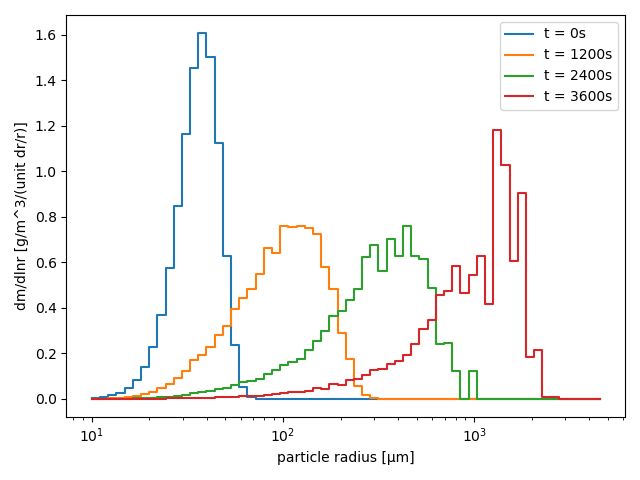
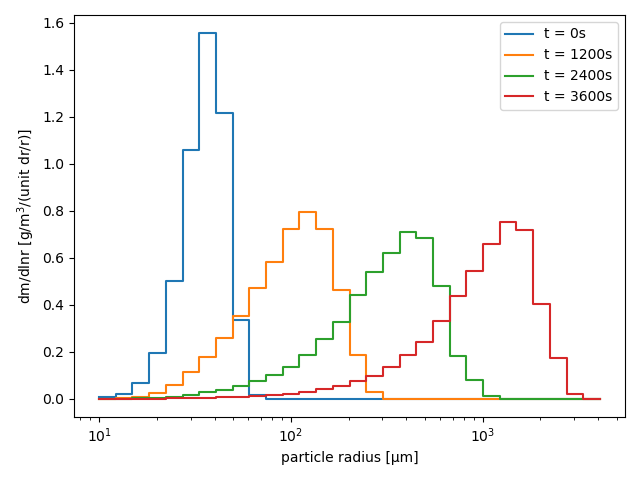
update README.md

diff --git a/PySDM/dynamics/coalescence/seeds/incrementation.py b/PySDM/dynamics/coalescence/seeds/incrementation.py
@@ -7,7 +7,7 @@ Created at 30.04.2020
 
 
 class Incrementation:
-    def __init__(self, start=0, step=1):
+    def __init__(self, start=44, step=1):
         self.seed = start
         self.step = step
 

diff --git a/README.md b/README.md
@@ -76,7 +76,7 @@ from PySDM.initialisation.spectral_sampling import constant_multiplicity
 from PySDM.initialisation.spectra import Exponential
 from PySDM.physics.formulae import volume
 
-n_sd = 2**15
+n_sd = 2**17
 initial_spectrum = Exponential(norm_factor=8.39e12, scale=1.19e5 * si.um**3)
 sampling_range = (volume(radius=10 * si.um), volume(radius=100 * si.um))
 v, n = constant_multiplicity(n_sd=n_sd, spectrum=initial_spectrum, range=sampling_range)
@@ -87,16 +87,16 @@ The key element of the PySDM interface if the [``Particles``](https://github.com
 Instantiation of the ``Particles`` class is handled by the ``ParticlesBuilder``
   as exemplified below:
 ```Python
-from PySDM.backends import Numba
-from PySDM import ParticlesBuilder
+from PySDM.particles_builder import ParticlesBuilder
 from PySDM.environments import Box
-from PySDM.dynamics.coalescence import SDM
+from PySDM.dynamics import Coalescence
 from PySDM.dynamics.coalescence.kernels import Golovin
+from PySDM.backends import Numba
 
-particles_builder = ParticlesBuilder(n_sd=n_sd, dt=1 * si.s, backend=Numba)
-particles_builder.set_environment(Box, {"dv": 1e6 * si.m**3})
+particles_builder = ParticlesBuilder(n_sd=n_sd, backend=Numba)
+particles_builder.set_environment(Box, {"dt": 1 * si.s, "dv": 1e6 * si.m**3})
 particles_builder.set_attributes(n=n, extensive={'volume': v}, intensive={})
-particles_builder.register_dynamic(SDM, {"kernel": Golovin(b=1.5e3 / si.s)})
+particles_builder.register_dynamic(Coalescence, {"kernel": Golovin(b=1.5e3 / si.s)})
 particles = particles_builder.get_particles()
 ```
 The ``backend`` argument may be set to either ``Numba`` or ``ThrustRTC``
@@ -116,21 +116,21 @@ In the listing below, its usage is interleaved with plotting logic
   which displays a histogram of particle mass distribution 
   at selected timesteps:
 ```Python
+from PySDM.physics.constants import rho_w
 from matplotlib import pyplot
 import numpy as np
 
-radius_bins_edges = np.logspace(np.log10(10 * si.um), np.log10(5e3 * si.um), num=64, endpoint=True)
-rho = 1000 * si.kg / si.m**3
+radius_bins_edges = np.logspace(np.log10(10 * si.um), np.log10(5e3 * si.um), num=32)
 
 for step in [0, 1200, 2400, 3600]:
     particles.run(step - particles.n_steps)
     pyplot.step(x=radius_bins_edges[:-1] / si.um,
-                y=particles.products['dv/dlnr'].get(radius_bins_edges) * rho / si.g,
+                y=particles.products['dv/dlnr'].get(radius_bins_edges) * rho_w / si.g,
                 where='post', label=f"t = {step}s")
 
 pyplot.xscale('log')
 pyplot.xlabel('particle radius [µm]')
-pyplot.ylabel("dm/dlnr [g/m^3/(unit dr/r)]")
+pyplot.ylabel("dm/dlnr [g/m$^3$/(unit dr/r)]")
 pyplot.legend()
 pyplot.show()
 ```
@@ -140,7 +140,48 @@ The resultant plot looks as follows:
 
 ## Package structure and API
 
-
+- backends:
+    - Numba
+    - ThrustRTC
+    - Pythran
+- initialisation:
+    - multiplicities
+        - integer values
+    - r_wet_init
+        - kappa_equilibrium
+    - spatial_sampling
+        - pseudorandom
+    - spectra
+        - Exponential
+        - Lognormal
+    - spectral_sampling
+        - linear
+        - logarithmic
+        - constant_multiplicity
+- physics:
+    - constants
+    - dimensional_analysis
+    - formulae
+- Environments:
+    - Box
+    - MoistEulerian2DKinematic
+    - MoistLagrangianParcelAdiabatic
+- Dynamics:
+    - Coalescence
+        - coalescence.kernels
+            - Golovin
+            - Gravitational
+    - Condensation
+        - condensation.solvers
+            - ImplicitInRadiusExplicitInThermodynamic (available: adaptive timestepping)
+            - BDF
+    - Displacement (includes advection with the flow & sedimentation)
+    - EulerianAdvection
+- Products (selected):
+    - SuperDropletCount
+    - ParticlesVolumeSpectrum
+    - CondensationTimestep
+    
 
 ## Credits:
 
